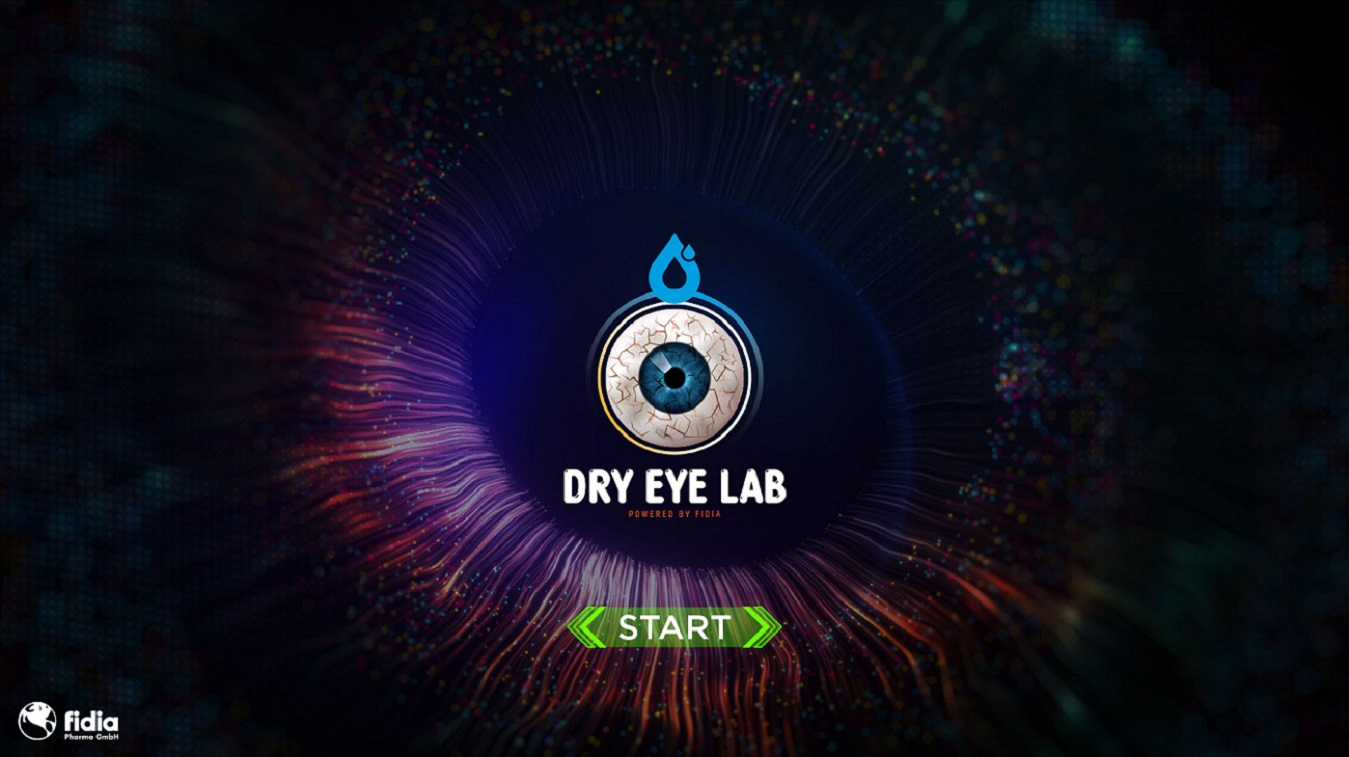
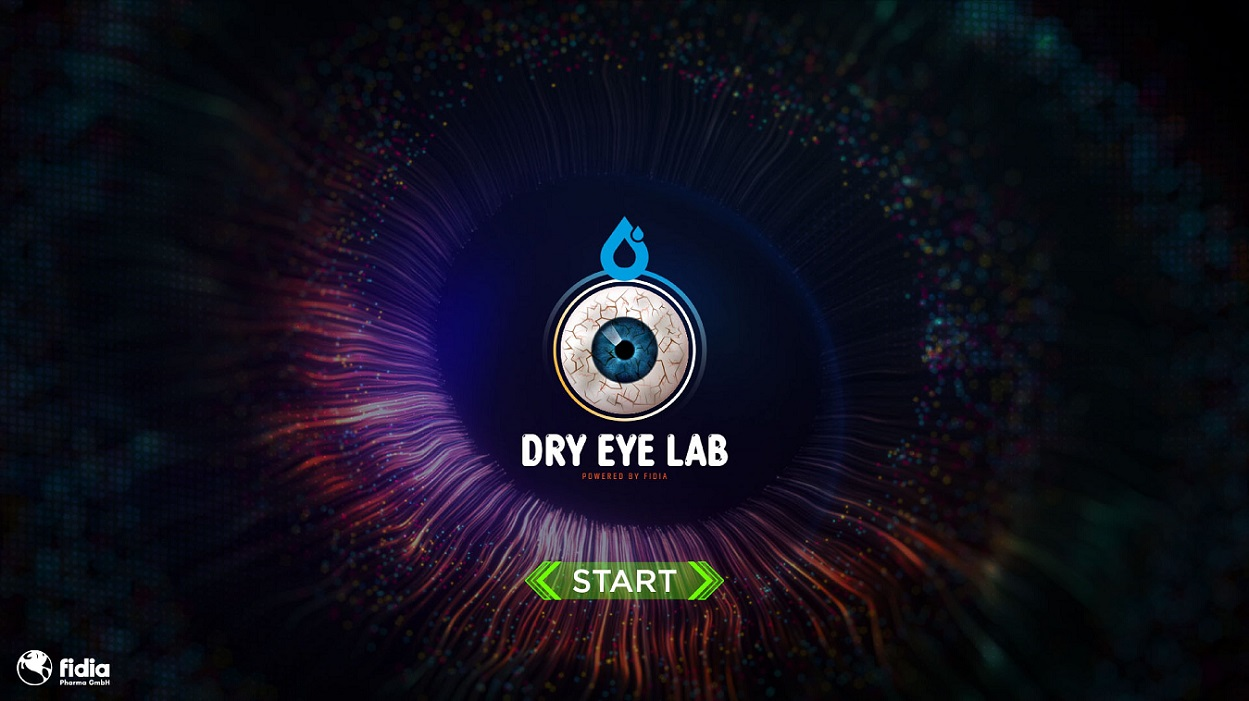
updated

diff --git a/style.css b/style.css
@@ -27,18 +27,21 @@ button{
 }
 .modal-background{
     background-image: url('images/start.jpg');
+    background-position: top center;
     background-repeat: no-repeat;
-    background-position: center;
     background-size: cover; 
-    position: relative;
-    text-align: center;
+    -webkit-background-size: 100%;
+-moz-background-size: cover;
+-o-background-size: cover;
+min-height: 100%;
+    
 }
 #strt{
     text-align: center;
     position: absolute;
      bottom: 0px;
     cursor: pointer;
-    width: 400px;
+    width: 300px;
     height: 200px;
 }
 html {
@@ -54,7 +57,7 @@ min-height: 100%;
 
 .dropzone{
     background-color: transparent;
-    height: 300px;
+    height: 280px;
     border: dashed 3px ;
     border-radius: 4px;
     margin: 30px;
@@ -92,8 +95,10 @@ p{
     position: absolute;
     top: 0px;
     width: 100px;
-    height: 110px;
+    padding: 5px;
+    height: 160px;
 }
+
 #snackbar {
     visibility: hidden;
     min-width: 200px;

diff --git a/script.js b/script.js
@@ -4,7 +4,7 @@ var compined={
   'ginkgo+hyaluronic':'images/trium.png',
   'nacl+hyaluronic':'images/edenorm.png',
   'amino+liposome':'images/tearfid.png',
-  'carbopol+echinacea':'images/iridium-gel.png',
+  'carbopol+echinacea':'images/iridium.png',
   'amino+lipoic':'images/tioretin.png'
 }
 var infictions = [
@@ -106,9 +106,9 @@ var medicines=[
     img:'images/tioretin.png'
   },
   {
-    id:'iridium-gel',
+    id:'iridium',
     class:'show-medic',
-    img:'images/iridium-gel.png'
+    img:'images/iridium.png'
   },
 ]
 var patients =[
@@ -181,7 +181,7 @@ function showMedicine ( params  ){
        
         <div id="${element.id}" class="single-medicine is-hidden">
       
-    <img  id="medicImg" src="${element.img}" class="medicine-item">
+    <img id="medicImg" src="${element.img}" class="medicine-item">
     </div>
     
     
